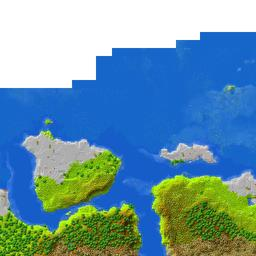
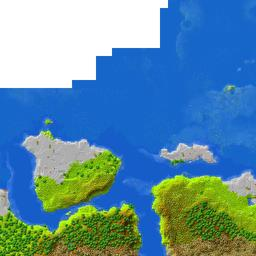
update

Changed region(s): [[0.625, 0.0, 1.0, 0.2188]]

diff --git a/unmined.map.regions.js b/unmined.map.regions.js
@@ -1,6 +1,6 @@
 var UnminedRegions = [
-{ x: 0, z: 0, m: new Uint32Array([1574407,3,3,1,1,1,0,0,0,0,0,0,0,0,0,0,0,0,0,0,0,0,0,0,0,0,0,0,0,0,0,0,0,0,0,0,0,0,0,0,0,0,0,0,0,0,0,0,0,0,0,0,0,0,0,0,0,0,0,0,0,0,0,0,0,0,0,0,0,0,0,0,0,0,0,0,0,0,0,0,0,0,0,0,0,0,0,0,0,0,0,0,0,0,0,0,0,0,0,0,0,0,0,0,0,0,0,0,0,0,0,0,0,0,0,0,0,0,0,0,0,0,0,0,0,0,0,0,0,0,0,0,0,0,0,0,0,0,0,0,0,0,0,0,0,0,0,0,0,0,0,0,0,0,0,0,0,0,0,0,0,0,0,0,0,0,0,0,0,0,0,0,0,0,0,0,0,0,0,0,0,0,0,0,0,0,0,0,0,0,0,0,0,0,0,0,0,0,0,0,0,0,0,0,0,0,0,0,0,0,0,0,0,0,0,0,0,0,0,0,0,0,0,0,0,0,0,0,0,0,0,0,0,0,0,0,0,0,0,0,0,0,0,0,0,0,0,0,0,0,0,0,0,0,0,0]) },
-{ x: 0, z: -1, m: new Uint32Array([0,0,0,0,0,0,0,0,0,0,0,0,0,0,0,0,0,0,0,0,0,0,0,0,0,0,0,0,0,0,7,1574407,0,0,0,0,0,0,0,0,0,0,0,0,0,0,0,0,0,0,0,0,0,0,0,0,0,0,0,0,0,0,0,0,0,0,0,0,0,0,0,0,0,0,0,0,0,0,0,0,0,0,0,0,0,0,0,0,0,0,0,0,0,0,0,0,0,0,0,0,0,0,0,0,0,0,0,0,0,0,0,0,0,0,0,0,0,0,0,0,0,0,0,0,0,0,0,0,0,0,0,0,0,0,0,0,0,0,0,0,0,0,0,0,0,0,0,0,0,0,0,0,0,0,0,0,0,0,0,0,0,0,0,0,0,0,0,0,0,0,0,0,0,0,0,0,0,0,0,0,0,0,0,0,0,0,0,0,0,0,0,0,0,0,0,0,0,0,0,0,0,0,0,0,0,0,0,0,0,0,0,0,0,0,0,0,0,0,0,0,0,0,0,0,0,0,0,0,0,0,0,0,0,0,0,0,0,0,0,0,0,0,0,0,0,0,0,0,0,0,0,0,0,0,0,0]) },
 { x: -1, z: 0, m: new Uint32Array([3758096384,3221225472,2147483648,3221225472,4026531840,4026531840,4026531840,0,0,0,0,0,0,0,0,0,0,0,0,0,0,0,0,0,0,0,0,0,0,0,0,0,0,0,0,0,0,0,0,0,0,0,0,0,0,0,0,0,0,0,0,0,0,0,0,0,0,0,0,0,0,0,0,0,0,0,0,0,0,0,0,0,0,0,0,0,0,0,0,0,0,0,0,0,0,0,0,0,0,0,0,0,0,0,0,0,0,0,0,0,0,0,0,0,0,0,0,0,0,0,0,0,0,0,0,0,0,0,0,0,0,0,0,0,0,0,0,0,0,0,0,0,0,0,0,0,0,0,0,0,0,0,0,0,0,0,0,0,0,0,0,0,0,0,0,0,0,0,0,0,0,0,0,0,0,0,0,0,0,0,0,0,0,0,0,0,0,0,0,0,0,0,0,0,0,0,0,0,0,0,0,0,0,0,0,0,0,0,0,0,0,0,0,0,0,0,0,0,0,0,0,0,0,0,0,0,0,0,0,0,0,0,0,0,0,0,0,0,0,0,0,0,0,0,0,0,0,0,0,0,0,0,0,0,0,0,0,0,0,0,0,0,0,0,0,0]) },
-{ x: -1, z: -1, m: new Uint32Array([0,0,0,0,0,0,0,0,0,0,0,0,0,0,0,0,0,0,0,0,0,0,0,0,0,0,0,0,0,0,3221225472,3758096384,0,0,0,0,0,0,0,0,0,0,0,0,0,0,0,0,0,0,0,0,0,0,0,0,0,0,0,0,0,0,0,0,0,0,0,0,0,0,0,0,0,0,0,0,0,0,0,0,0,0,0,0,0,0,0,0,0,0,0,0,0,0,0,0,0,0,0,0,0,0,0,0,0,0,0,0,0,0,0,0,0,0,0,0,0,0,0,0,0,0,0,0,0,0,0,0,0,0,0,0,0,0,0,0,0,0,0,0,0,0,0,0,0,0,0,0,0,0,0,0,0,0,0,0,0,0,0,0,0,0,0,0,0,0,0,0,0,0,0,0,0,0,0,0,0,0,0,0,0,0,0,0,0,0,0,0,0,0,0,0,0,0,0,0,0,0,0,0,0,0,0,0,0,0,0,0,0,0,0,0,0,0,0,0,0,0,0,0,0,0,0,0,0,0,0,0,0,0,0,0,0,0,0,0,0,0,0,0,0,0,0,0,0,0,0,0,0,0,0,0,0,0,0,0]) },
+{ x: 0, z: -1, m: new Uint32Array([0,0,0,0,0,0,0,0,0,0,0,0,0,0,0,0,0,0,0,0,0,0,0,0,0,0,0,0,0,0,7,1574407,0,0,0,0,0,0,0,0,0,0,0,0,0,0,0,0,0,0,0,0,0,0,0,0,0,0,0,0,0,0,0,0,0,0,0,0,0,0,0,0,0,0,0,0,0,0,0,0,0,0,0,0,0,0,0,0,0,0,0,0,0,0,0,0,0,0,0,0,0,0,0,0,0,0,0,0,0,0,0,0,0,0,0,0,0,0,0,0,0,0,0,0,0,0,0,0,0,0,0,0,0,0,0,0,0,0,0,0,0,0,0,0,0,0,0,0,0,0,0,0,0,0,0,0,0,0,0,0,0,0,0,0,0,0,0,0,0,0,0,0,0,0,0,0,0,0,0,0,0,0,0,0,0,0,0,0,0,0,0,0,0,0,0,0,0,0,0,0,0,0,0,0,0,0,0,0,0,0,0,0,0,0,0,0,0,0,0,0,0,0,0,0,0,0,0,0,0,0,0,0,0,0,0,0,0,0,0,0,0,0,0,0,0,0,0,0,0,0,0,0,0,0,0,0]) },
+{ x: 0, z: 0, m: new Uint32Array([1574407,3,3,1,1,1,0,0,0,0,0,0,0,0,0,0,0,0,0,0,0,0,0,0,0,0,0,0,0,0,0,0,0,0,0,0,0,0,0,0,0,0,0,0,0,0,0,0,0,0,0,0,0,0,0,0,0,0,0,0,0,0,0,0,0,0,0,0,0,0,0,0,0,0,0,0,0,0,0,0,0,0,0,0,0,0,0,0,0,0,0,0,0,0,0,0,0,0,0,0,0,0,0,0,0,0,0,0,0,0,0,0,0,0,0,0,0,0,0,0,0,0,0,0,0,0,0,0,0,0,0,0,0,0,0,0,0,0,0,0,0,0,0,0,0,0,0,0,0,0,0,0,0,0,0,0,0,0,0,0,0,0,0,0,0,0,0,0,0,0,0,0,0,0,0,0,0,0,0,0,0,0,0,0,0,0,0,0,0,0,0,0,0,0,0,0,0,0,0,0,0,0,0,0,0,0,0,0,0,0,0,0,0,0,0,0,0,0,0,0,0,0,0,0,0,0,0,0,0,0,0,0,0,0,0,0,0,0,0,0,0,0,0,0,0,0,0,0,0,0,0,0,0,0,0,0]) },
+{ x: -1, z: -1, m: new Uint32Array([0,0,0,0,0,0,0,0,0,0,0,0,0,0,0,0,0,0,0,0,0,0,0,0,0,0,0,3758096384,3758096384,3758096384,3221225472,3758096384,0,0,0,0,0,0,0,0,0,0,0,0,0,0,0,0,0,0,0,0,0,0,0,0,0,0,0,0,0,0,0,0,0,0,0,0,0,0,0,0,0,0,0,0,0,0,0,0,0,0,0,0,0,0,0,0,0,0,0,0,0,0,0,0,0,0,0,0,0,0,0,0,0,0,0,0,0,0,0,0,0,0,0,0,0,0,0,0,0,0,0,0,0,0,0,0,0,0,0,0,0,0,0,0,0,0,0,0,0,0,0,0,0,0,0,0,0,0,0,0,0,0,0,0,0,0,0,0,0,0,0,0,0,0,0,0,0,0,0,0,0,0,0,0,0,0,0,0,0,0,0,0,0,0,0,0,0,0,0,0,0,0,0,0,0,0,0,0,0,0,0,0,0,0,0,0,0,0,0,0,0,0,0,0,0,0,0,0,0,0,0,0,0,0,0,0,0,0,0,0,0,0,0,0,0,0,0,0,0,0,0,0,0,0,0,0,0,0,0,0,0,0,0,0]) },
 ];

diff --git a/unmined.map.properties.js b/unmined.map.properties.js
@@ -5,7 +5,7 @@ var UnminedMapProperties = {
     defaultZoom: 0,
     imageFormat: "jpeg",
     minRegionX: -4,
-    minRegionZ: -2,
+    minRegionZ: -5,
     maxRegionX: 20,
     maxRegionZ: 6,
     worldName: "world",
